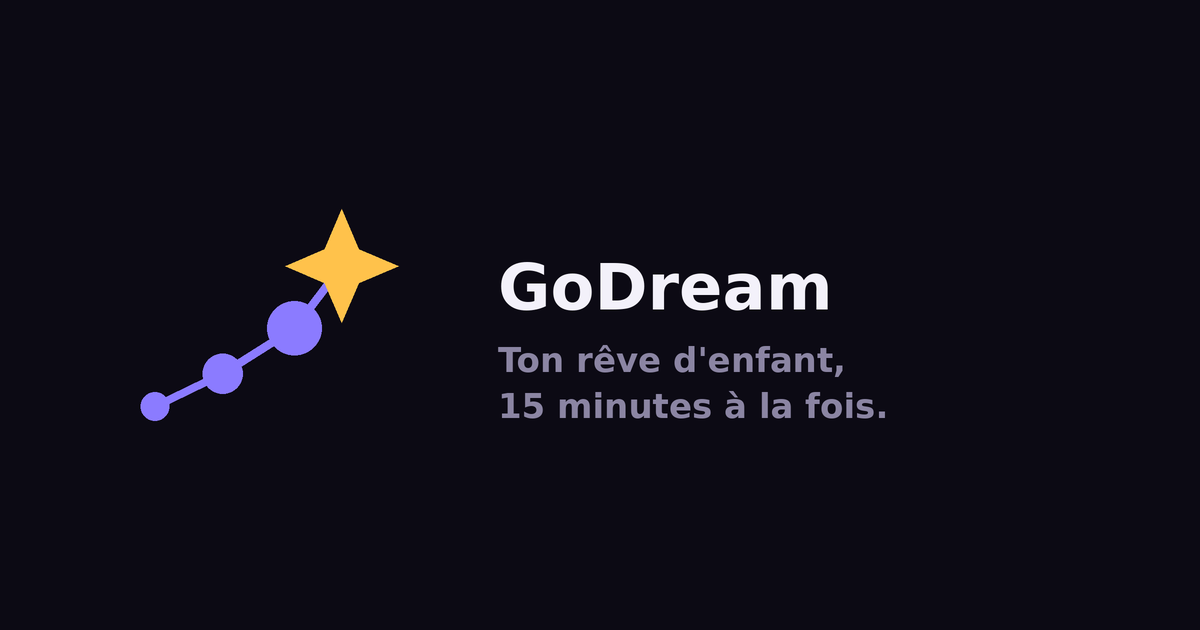
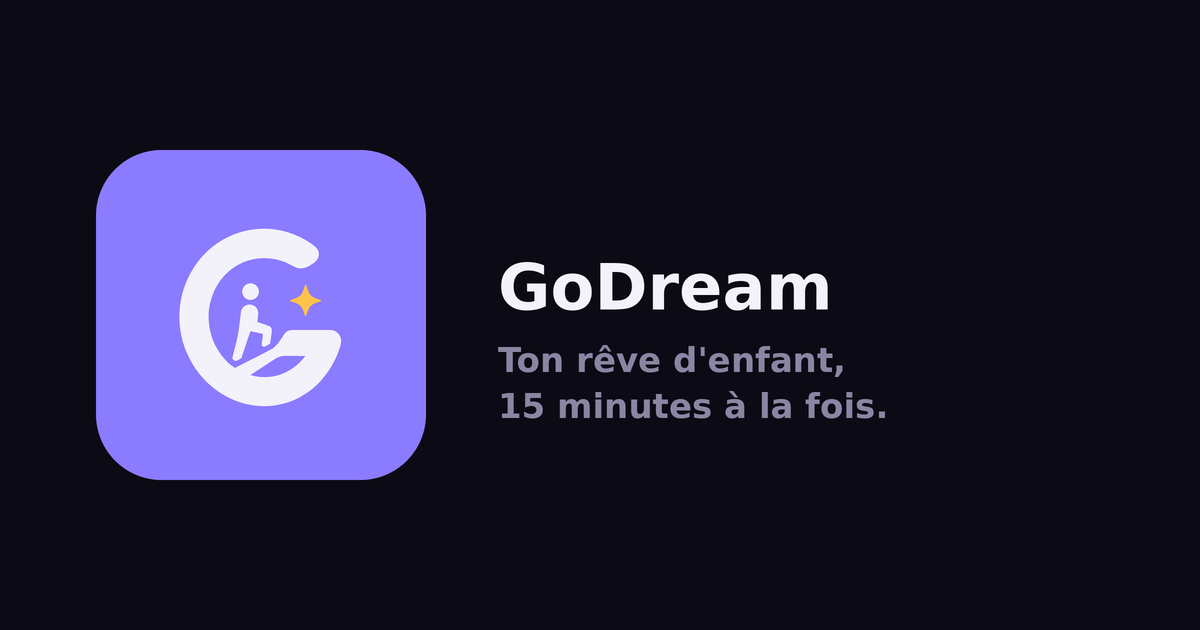
feat: le nouveau signe, et une seule copie de son tracé
La page inlinait les courbes de l'ancienne marque. Elle pointe maintenant sur
`favicon.svg`, le fichier que le navigateur charge déjà pour l'onglet : une
requête, un seul tracé, plus de copie à oublier au prochain ajustement.

`favicon.svg` et `preview.png` sont produits par `tool/brand/preview.py` du
dépôt de l'app — ils ne se retouchent pas ici.

Changed region(s): [[0.0617, 0.2111, 0.37, 0.7841]]

diff --git a/index.html b/index.html
@@ -23,21 +23,16 @@
 </head>
 <body class="landing">
 <main>
-  <!-- Le vrai tracé de la marque, copié d'assets/brand/godream-mark.svg — pas
-       une approximation dessinée pour le web. Le signe dit quelque chose : trois
-       points qui grandissent en montant (les micro-actions, qui s'accumulent et
-       accélèrent comme une série), puis l'étoile (le rêve). L'or ne sert qu'à ce
-       qui est gagné, ici comme dans l'app, et c'est ce qui l'empêche de perdre
-       sa valeur. -->
-  <svg class="mark" xmlns="http://www.w3.org/2000/svg" viewBox="0 0 512 512" role="img" aria-label="GoDream">
-    <rect width="512" height="512" rx="120" fill="#8B7BFF"/>
-    <path d="M 91.2 398.2 L 196.7 346.9 L 308.2 276.6 L 381.6 180.1" stroke="#0C0A14" stroke-width="13.7" stroke-linecap="round" stroke-linejoin="round" fill="none"/>
-    <circle cx="91.2" cy="398.2" r="22.1" fill="#0C0A14"/>
-    <circle cx="196.7" cy="346.9" r="31.1" fill="#0C0A14"/>
-    <circle cx="308.2" cy="276.6" r="42.2" fill="#0C0A14"/>
-    <path d="M 381.6 91.7 Q 387.1 172.2 442.9 180.1 Q 387.1 188.1 381.6 268.6 Q 376.1 188.1 320.3 180.1 Q 376.1 172.2 381.6 91.7 Z" fill="#0C0A14"/>
-    <circle cx="381.6" cy="180.1" r="20.8" fill="#FFC24B"/>
-  </svg>
+  <!-- Le signe est servi par `favicon.svg`, le fichier même que la balise
+       `icon` ci-dessus fait déjà charger au navigateur : une seule requête pour
+       les deux rôles, et surtout **un seul tracé**. L'inliner ici en recopierait
+       les courbes, et c'est toujours la copie qu'on oublie de mettre à jour.
+
+       Ce qu'il raconte : un croissant en forme de G — le nom, et la nuit où le
+       rêve d'enfance a été rangé —, quelqu'un qui l'escalade, et l'étincelle du
+       rêve. L'or ne sert qu'à ce qui est gagné, ici comme dans l'app, et c'est ce
+       qui l'empêche de perdre sa valeur. -->
+  <img class="mark" src="favicon.svg" width="72" height="72" alt="GoDream">
 
   <h1>Ton rêve d'enfant,<br>15 minutes à la fois.</h1>
   <p class="tagline">
